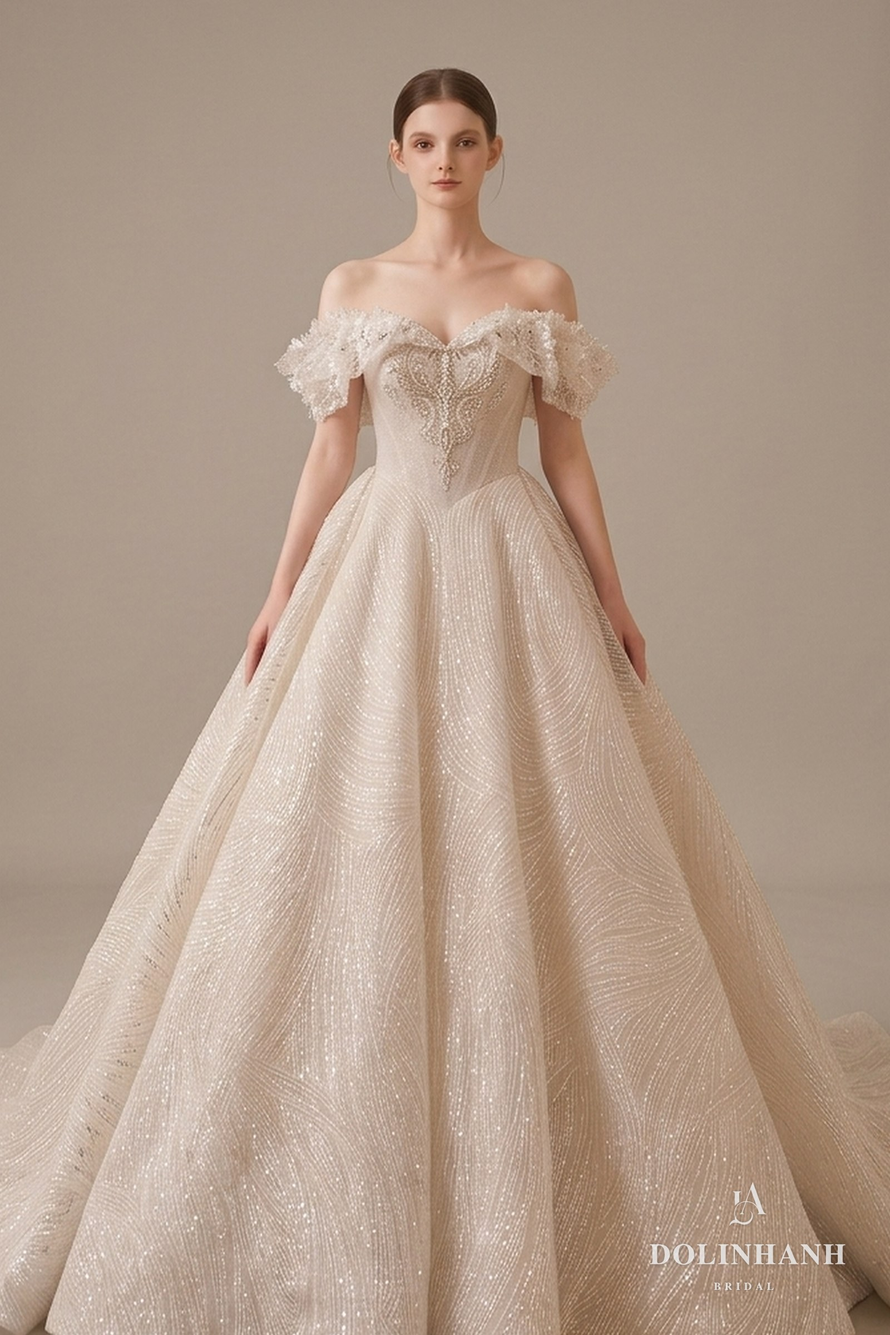
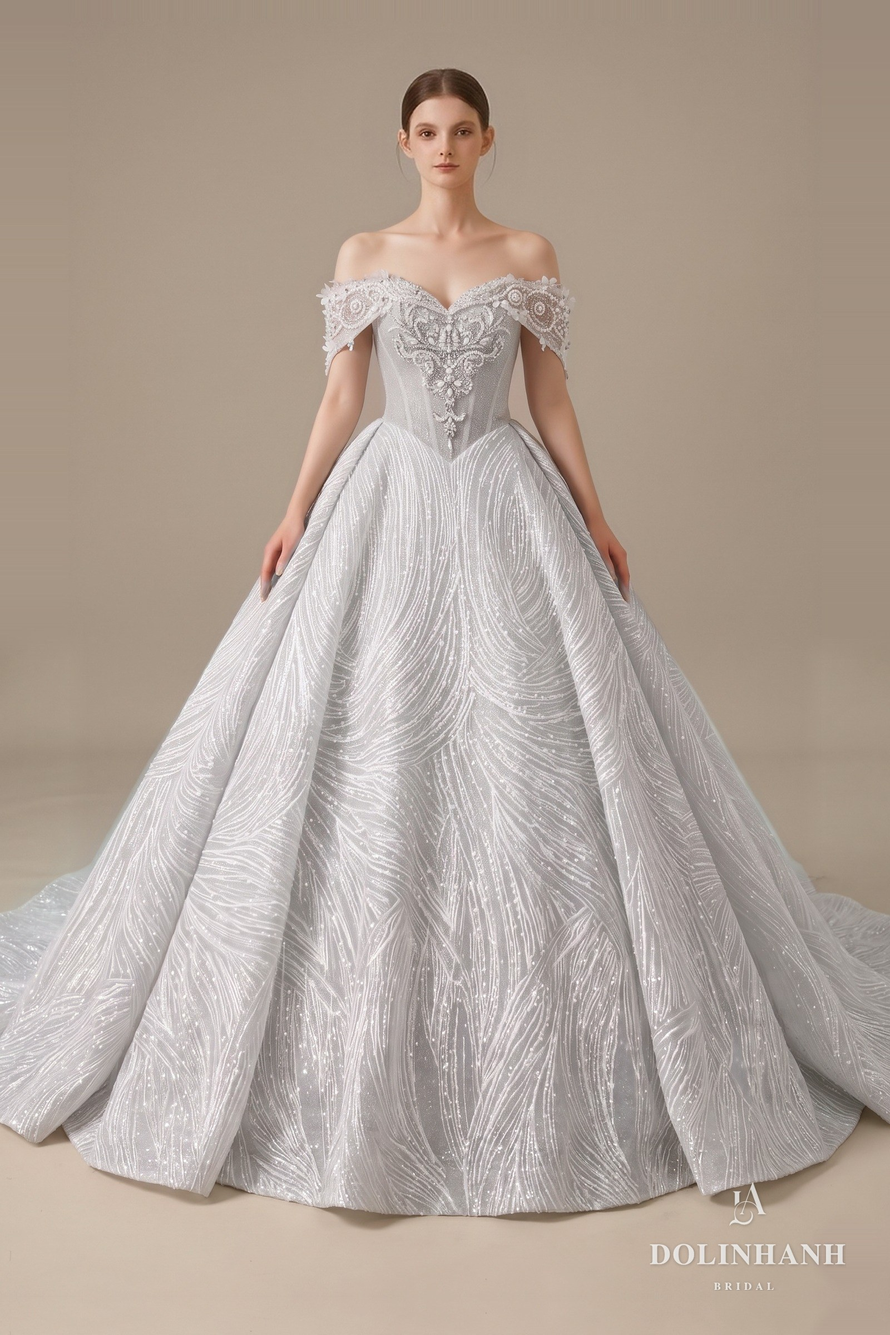
V177: sua anh MS 552: ve lai theo clip TikTok, du gau vay

diff --git a/bo-suu-tap.html b/bo-suu-tap.html
@@ -3852,7 +3852,7 @@ src="https://www.facebook.com/tr?id=1358640082651240&ev=PageView&noscript=1"
         </figure>
         <figure data-dang="ballgown" data-mood="timeless" data-coso="hcm">
           <div class="sl-khung">
-            <div class="sl" data-img="anh/vay/ms552/01.jpg?v=1"></div>
+            <div class="sl" data-img="anh/vay/ms552/01.jpg?v=0511"></div>
           </div>
           <figcaption><span class="kind" data-en="Dolinhanh Bridal" data-zh="Dolinhanh Bridal">Dolinhanh Bridal</span><span class="nm">MS 552</span><span class="de" data-en="Ruffled petal off-shoulder sequin ballgown" data-zh="花瓣荷叶边一字肩亮片大蓬裙">Trễ vai bèo hoa, bồng xoè kim sa</span><span class="gia">US$1,880</span></figcaption>
         </figure>
